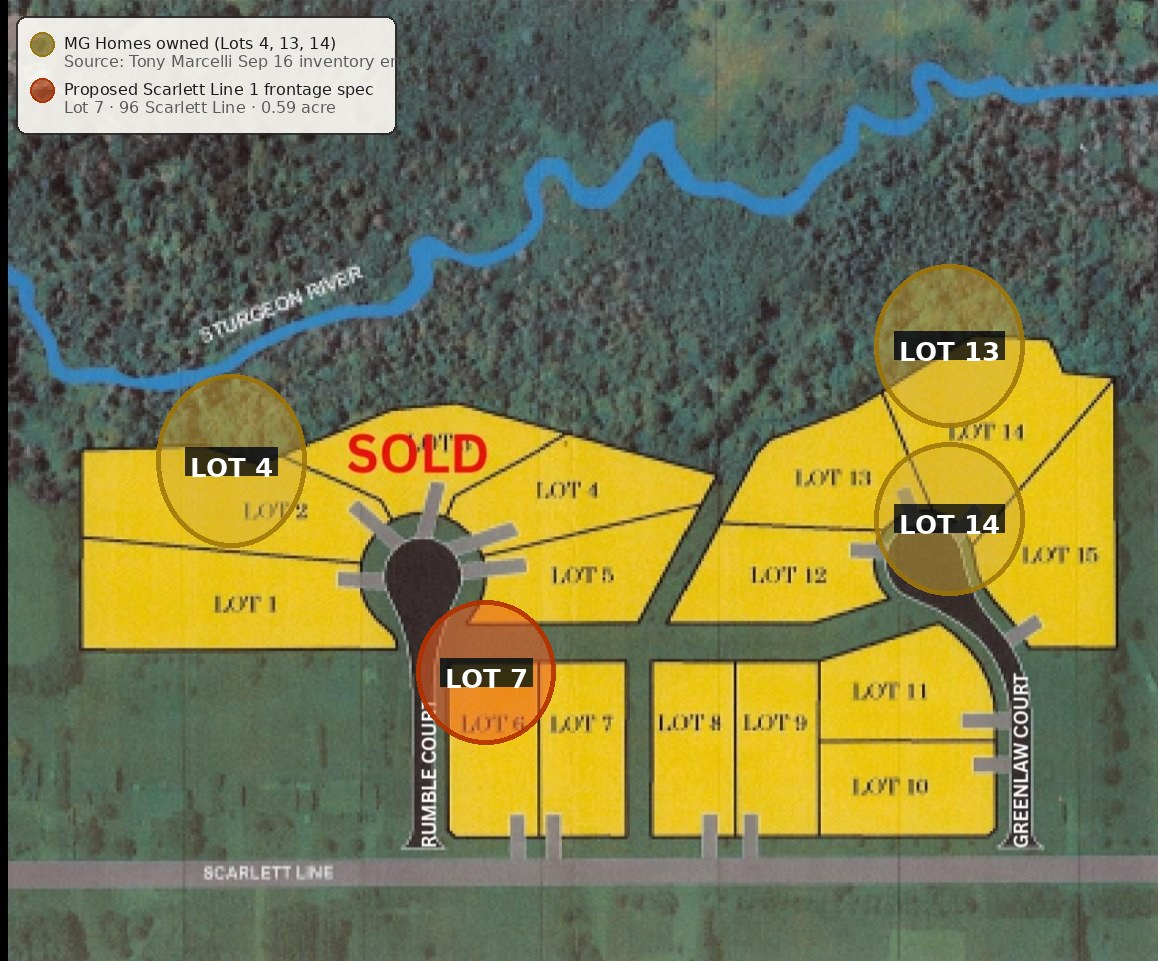
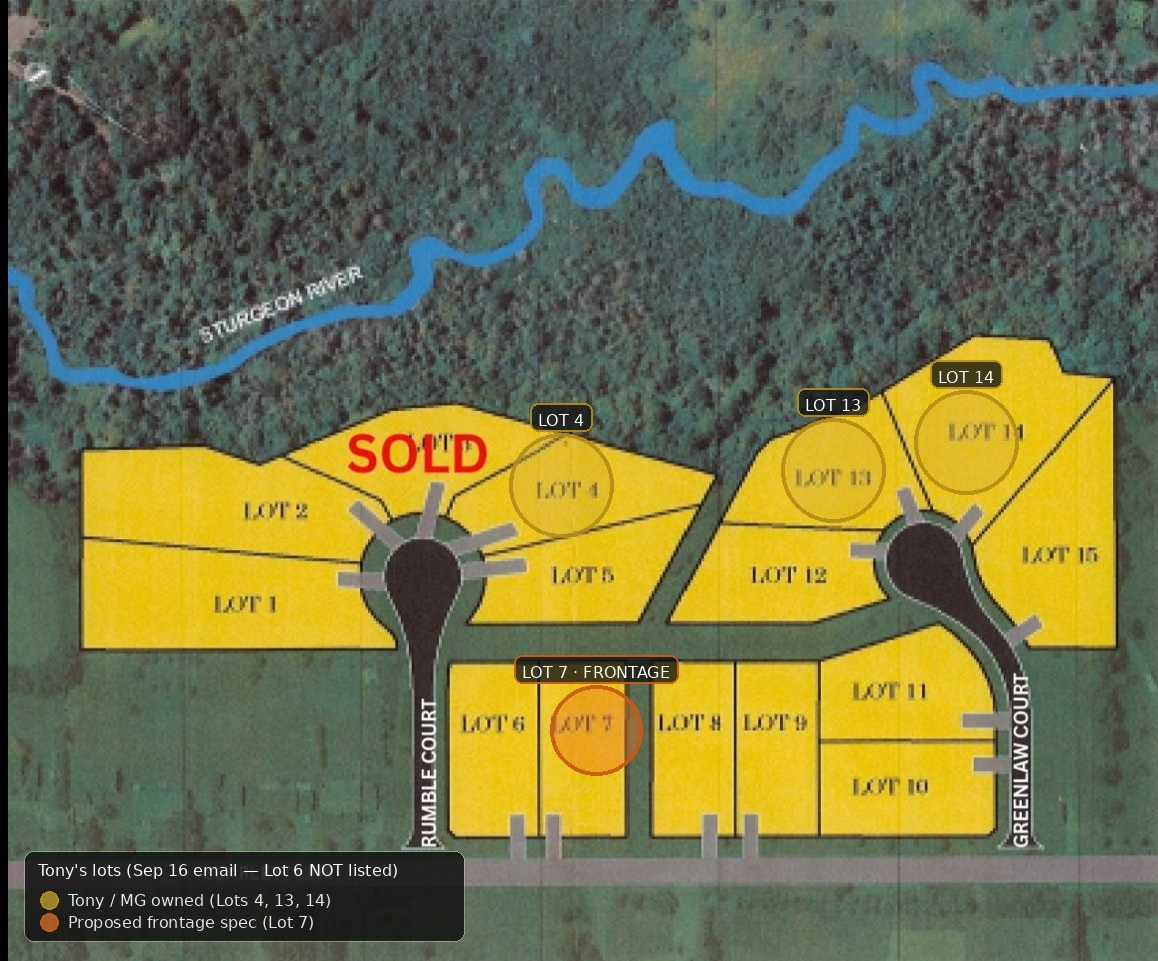
Fix site-plan lot bubbles; O5C label; confirm Tony lots exclude Lot 6
Tony Sep 16 email + PDFs list only Lots 4, 7, 13, 14 (no Lot 6).
Reposition Lot 4/7/13/14 highlights onto labelled parcels; legend notes Lot 6 not listed.

diff --git a/assets/js/main-mg-ref.js b/assets/js/main-mg-ref.js
@@ -1,0 +1,177 @@
+(function(){
+  'use strict';
+  var reduce = window.matchMedia && window.matchMedia('(prefers-reduced-motion: reduce)').matches;
+  var slides = Array.prototype.slice.call(document.querySelectorAll('.slide'));
+  var total = slides.length;
+  var body = document.body;
+
+  // Outbound links in new tabs
+  document.querySelectorAll('a[href^="http"]').forEach(function(a){ a.target = '_blank'; a.rel = 'noopener'; });
+
+  // ---------- Lots ----------
+  var LOTS = [
+    { c:'Scarlett Estates · Hillsdale', no:'Lot 4', addr:'18 Rumble Crt', ac:'0.71', img:'survey-lot4.jpg', fit:'cover', alt:'Survey extract with Lot 4 outlined', rows:[['Lot size','About 0.71 acre'],['Services','Town water, septic, natural gas, fibre optics'],['New build price range','$1.3M to $1.5M']] },
+    { c:'Scarlett Estates · Hillsdale', no:'Lot 7', addr:'96 Scarlett Line', ac:'0.59', img:'survey-lot7.jpg', fit:'cover', alt:'Survey extract with Lot 7 outlined', rows:[['Lot size','About 0.59 acre'],['Services','Town water, septic, natural gas, fibre optics'],['New build price range','$1.3M to $1.5M']] },
+    { c:'Scarlett Estates · Hillsdale', no:'Lot 13', addr:'15 Greenlaw Crt', ac:'0.69', img:'survey-lot13.jpg', fit:'cover', alt:'Survey extract with Lot 13 outlined', rows:[['Lot size','About 0.69 acre'],['Services','Town water, septic, natural gas, fibre optics'],['New build price range','$1.3M to $1.5M']] },
+    { c:'Scarlett Estates · Hillsdale', no:'Lot 14', addr:'12 Greenlaw Crt', ac:'1.01', img:'survey-lot14.jpg', fit:'cover', alt:'Survey extract with Lot 14 outlined', rows:[['Lot size','About 1.01 acres'],['Services','Town water, septic, natural gas, fibre optics'],['New build price range','$1.3M to $1.5M']] },
+    { c:'Swan Lane · Port McNicoll', no:'9 Swan Lane', addr:'Unit 44 · gated', ac:'0.41', img:'sketch-swan9.jpg', fit:'contain', alt:'Lot sketch, 9 Swan Lane, Unit 44', rows:[['Lot size','About 0.41 acre'],['Services','Town water and sewer'],['Connectivity','Rogers and Bell'],['Condo fees','$176.73/month']] },
+    { c:'Swan Lane · Port McNicoll', no:'11 Swan Lane', addr:'Unit 45 · gated', ac:'0.42', img:'sketch-swan11.jpg', fit:'contain', alt:'Lot sketch, 11 Swan Lane, Unit 45', rows:[['Lot size','About 0.42 acre'],['Services','Town water and sewer'],['Connectivity','Rogers and Bell'],['Condo fees','$176.73/month']] }
+  ];
+  var cards = document.getElementById('lotCards');
+  if (cards){
+    LOTS.forEach(function(l, i){
+      var b = document.createElement('button');
+      b.className = 'lot r'; b.style.setProperty('--d', 2 + i * 0.5); b.type = 'button';
+      b.setAttribute('aria-label', 'Open lot sheet: ' + l.no + ', ' + l.addr);
+      b.innerHTML = '<div class="thumb' + (l.fit === 'contain' ? ' contain' : '') + '"><img src="assets/img/' + l.img + '" alt=""></div>' +
+        '<div class="meta"><div class="comm">' + l.c.split(' · ')[0] + '</div><div class="no">' + l.no + '</div><div class="addr">' + l.addr + '</div><span class="ac">' + l.ac + ' acre' + (l.ac === '1.01' ? 's' : '') + '</span></div>';
+      b.addEventListener('click', function(){ openLot(i); });
+      cards.appendChild(b);
+    });
+  }
+  var lb = document.getElementById('lb'), lbIdx = 0, lbMode = '', lbReturn = null;
+  function openLot(i){
+    lbMode = 'lot'; if (!lb.classList.contains('open')) lbReturn = document.activeElement;
+    lbIdx = (i + LOTS.length) % LOTS.length; var l = LOTS[lbIdx];
+    lb.innerHTML = '<div class="sheet" role="dialog" aria-modal="true" aria-label="Lot sheet ' + l.no + '">' +
+      '<div class="head"><img src="assets/img/mg-homes-logo.png" alt="MG Homes"><div><span class="c">' + l.c + '</span><button type="button" data-close aria-label="Close">Close ✕</button></div></div>' +
+      '<div class="main"><div class="plan"><img src="assets/img/' + l.img + '" alt="' + l.alt + '"></div>' +
+      '<div><h4>' + l.no + '</h4><div class="sub">' + l.addr + '</div>' +
+      '<div class="box">MG custom plan and render for this lot<br>(designed with Tony)</div>' +
+      '<table>' + l.rows.map(function(r){ return '<tr><td>' + r[0] + '</td><td>' + r[1] + '</td></tr>'; }).join('') + '</table></div></div>' +
+      '<div class="foot"><span>Faris Team x MG Homes · lot details as provided by MG Homes</span><span class="nav"><button type="button" data-prev>← Prev</button><button type="button" data-next>Next →</button></span></div></div>';
+    lb.classList.add('open');
+    lb.querySelector('[data-close]').focus();
+  }
+  function closeLot(){
+    lb.classList.remove('open'); lb.innerHTML = ''; lbMode = '';   // clearing innerHTML also stops the video
+    if (lbReturn && lbReturn.focus) lbReturn.focus({ preventScroll: true }); lbReturn = null;
+  }
+
+  // ---------- Showcase video (YouTube in the lightbox; "Watch on YouTube" fallback for file:// playback) ----------
+  var YT_ID = '7DDawthzjuA', YT_WATCH = 'https://www.youtube.com/watch?v=' + YT_ID;
+  function openVideo(){
+    lbMode = 'video'; lbReturn = document.activeElement;
+    lb.innerHTML = '<div class="sheet vsheet" role="dialog" aria-modal="true" aria-label="Video tour: 7 Reynolds Road, Tiny">' +
+      '<div class="head"><span class="c">Example · our video tour of 7 Reynolds Road, Tiny</span><button type="button" data-close aria-label="Close video">Close ✕</button></div>' +
+      '<div class="vframe"><iframe src="https://www.youtube-nocookie.com/embed/' + YT_ID + '?autoplay=1&amp;rel=0" title="7 Reynolds Road, Tiny | Home for Sale | Faris Team" allow="autoplay; encrypted-media; picture-in-picture; fullscreen" referrerpolicy="strict-origin-when-cross-origin" allowfullscreen></iframe></div>' +
+      '<div class="foot"><span>Faris Team video · filmed with the homeowner\'s permission</span><a class="yt" href="' + YT_WATCH + '" target="_blank" rel="noopener">Not playing? Watch on YouTube ↗</a></div></div>';
+    lb.classList.add('open');
+    lb.querySelector('[data-close]').focus();
+  }
+  var showVideo = document.getElementById('showVideo');
+  if (showVideo && lb) showVideo.addEventListener('click', openVideo);
+  if (lb){
+    lb.addEventListener('click', function(e){
+      if (e.target === lb || e.target.closest('[data-close]')) closeLot();
+      else if (e.target.closest('[data-prev]')) openLot(lbIdx - 1);
+      else if (e.target.closest('[data-next]')) openLot(lbIdx + 1);
+    });
+  }
+
+  // ---------- Lot animation video (loads only if the file exists) ----------
+  var vbox = document.getElementById('lotVideo');
+  if (vbox){
+    var v = vbox.querySelector('video');
+    v.addEventListener('loadeddata', function(){ vbox.classList.add('has-video'); if (!reduce) v.play().catch(function(){}); });
+    v.addEventListener('error', function(){ vbox.classList.remove('has-video'); }, true);
+    var s = document.createElement('source'); s.src = 'assets/video/lot-animation.mp4'; s.type = 'video/mp4';
+    s.addEventListener('error', function(){ vbox.classList.remove('has-video'); });
+    v.appendChild(s); v.load();
+  }
+
+  // ---------- Chrome: progress, dots, counter, menu ----------
+  var progress = document.querySelector('.progress');
+  var counter = document.querySelector('.counter');
+  var dots = document.querySelector('.dots');
+  var menuList = document.querySelector('.menu ol');
+  slides.forEach(function(s, i){
+    var d = document.createElement('button'); d.type = 'button'; d.title = s.dataset.title; d.setAttribute('aria-label', 'Go to ' + s.dataset.title);
+    d.addEventListener('click', function(){ go(i); }); dots.appendChild(d);
+    var li = document.createElement('li'); li.innerHTML = '<a href="#' + s.id + '"><span>' + (i + 1) + '</span>' + s.dataset.title + '</a>';
+    li.querySelector('a').addEventListener('click', function(e){ e.preventDefault(); go(i); toggleMenu(false); });
+    menuList.appendChild(li);
+  });
+  var dotEls = dots.children, menuLinks = menuList.querySelectorAll('a');
+  var notesPanel = document.querySelector('.notes-panel .txt');
+  var current = -1;
+
+  function idxNow(){ return Math.max(0, Math.min(total - 1, Math.round(window.scrollY / window.innerHeight))); }
+  function nearest(){
+    var best = 0, bd = Infinity;
+    slides.forEach(function(s, i){ var d = Math.abs(s.getBoundingClientRect().top); if (d < bd){ bd = d; best = i; } });
+    return best;
+  }
+  function setActive(i){
+    if (i === current) return; current = i;
+    slides.forEach(function(s, k){ if (k === i) activate(s); });
+    progress.style.width = ((i + 1) / total * 100) + '%';
+    counter.textContent = String(i + 1).padStart(2, '0') + ' / ' + String(total).padStart(2, '0');
+    for (var k = 0; k < dotEls.length; k++){ dotEls[k].classList.toggle('on', k === i); menuLinks[k].classList.toggle('on', k === i); }
+    var n = slides[i].querySelector('.notes'); notesPanel.textContent = n ? n.textContent : 'No notes for this slide.';
+    document.body.classList.toggle('on-dark', slides[i].classList.contains('dark'));
+  }
+  function activate(s){
+    if (s.classList.contains('active')) return;
+    s.classList.add('active');
+    s.querySelectorAll('[data-count]').forEach(countUp);
+  }
+  function fmt(n){ return Math.round(n).toLocaleString('en-CA'); }
+  function countUp(el){
+    if (el.dataset.done) return; el.dataset.done = 1;
+    var to = +el.dataset.count, suf = el.dataset.suffix || '', pre = el.dataset.prefix || '';
+    if (reduce){ el.textContent = pre + fmt(to) + suf; return; }
+    var t0 = null, dur = 1400;
+    function step(t){ if (!t0) t0 = t; var p = Math.min(1, (t - t0) / dur); var e = 1 - Math.pow(1 - p, 3);
+      el.textContent = pre + fmt(to * e) + suf; if (p < 1) requestAnimationFrame(step); }
+    el.textContent = pre + '0' + suf; requestAnimationFrame(step);
+  }
+  // Observe slides becoming visible
+  if ('IntersectionObserver' in window){
+    var io = new IntersectionObserver(function(es){ es.forEach(function(e){ if (e.isIntersecting) activate(e.target); }); }, { threshold: 0.45 });
+    slides.forEach(function(s){ io.observe(s); });
+  } else slides.forEach(activate);
+  var ticking = false;
+  window.addEventListener('scroll', function(){ if (!ticking){ ticking = true; requestAnimationFrame(function(){ setActive(nearest()); ticking = false; }); } }, { passive: true });
+  window.addEventListener('resize', function(){ setActive(nearest()); });
+  setActive(nearest());
+
+  function go(i){
+    i = Math.max(0, Math.min(total - 1, i));
+    slides[i].scrollIntoView({ behavior: reduce ? 'auto' : 'smooth', block: 'start' });
+  }
+  window.goToSlide = go;
+
+  function toggleMenu(force){ var on = typeof force === 'boolean' ? force : !body.classList.contains('menu-open'); body.classList.toggle('menu-open', on); }
+  document.querySelector('.menu-btn').addEventListener('click', function(){ toggleMenu(); });
+  document.querySelector('.menu-hot').addEventListener('mouseenter', function(){ toggleMenu(true); });
+  document.querySelector('.menu').addEventListener('mouseleave', function(){ toggleMenu(false); });
+
+  function fullscreen(){
+    var d = document;
+    if (!d.fullscreenElement && !d.webkitFullscreenElement){ var el = d.documentElement; (el.requestFullscreen || el.webkitRequestFullscreen).call(el); }
+    else (d.exitFullscreen || d.webkitExitFullscreen).call(d);
+  }
+
+  document.addEventListener('keydown', function(e){
+    if (e.metaKey || e.ctrlKey || e.altKey) return;
+    var k = e.key;
+    if (lb && lb.classList.contains('open')){
+      // While any lightbox is open, keys never move the slides underneath.
+      if (k === 'Escape'){ closeLot(); e.preventDefault(); }
+      else if (lbMode === 'lot' && k === 'ArrowRight'){ openLot(lbIdx + 1); e.preventDefault(); }
+      else if (lbMode === 'lot' && k === 'ArrowLeft'){ openLot(lbIdx - 1); e.preventDefault(); }
+      else if (/^(Arrow(Up|Down|Left|Right)|PageUp|PageDown|Home|End| )$/.test(k)){ if (!(k === ' ' && e.target.closest && e.target.closest('button, a'))) e.preventDefault(); }
+      return;
+    }
+    var cur = nearest();
+    if (k === 'ArrowDown' || k === 'ArrowRight' || k === 'PageDown' || (k === ' ' && !e.shiftKey)){ go(cur + 1); e.preventDefault(); }
+    else if (k === 'ArrowUp' || k === 'ArrowLeft' || k === 'PageUp' || (k === ' ' && e.shiftKey)){ go(cur - 1); e.preventDefault(); }
+    else if (k === 'Home'){ go(0); e.preventDefault(); }
+    else if (k === 'End'){ go(total - 1); e.preventDefault(); }
+    else if (k === 'n' || k === 'N'){ body.classList.toggle('notes-on'); }
+    else if (k === 'm' || k === 'M'){ toggleMenu(); }
+    else if (k === 'f' || k === 'F'){ fullscreen(); }
+    else if (k === 'Escape'){ toggleMenu(false); body.classList.remove('notes-on'); }
+  });
+})();

diff --git a/index.html b/index.html
@@ -6,8 +6,8 @@
 <title>Scarlett Estates Spec Pricing - Faris Team x MG Homes</title>
 <meta name="description" content="Scarlett Estates frontage-lot spec pricing for Tony Marcelli, MG Homes. Prepared by Jonathan Wallace, REALTOR®, with Sabrina Staunton.">
 <meta name="robots" content="noindex,nofollow">
-<link rel="stylesheet" href="assets/css/styles.css?v=1029g">
-<link rel="stylesheet" href="assets/css/scarlet.css?v=1029g">
+<link rel="stylesheet" href="assets/css/styles.css?v=1029j">
+<link rel="stylesheet" href="assets/css/scarlet.css?v=1029j">
 <link rel="stylesheet" href="https://unpkg.com/leaflet@1.9.4/dist/leaflet.css" integrity="sha256-p4NxAoJBhIIN+hmNHrzRCf9tD/miZyoHS5obTRR9BMY=" crossorigin="">
 <script>document.documentElement.className += ' js';</script>
 
@@ -53,7 +53,7 @@
     <img class="mg r" style="--d:2" src="assets/img/mg-homes-logo.png" alt="MG Homes">
   </div>
   <div class="right">
-    <div class="photo kb"><img src="assets/img/scarlett-estates-site-plan-mg.jpg" alt="Scarlett Estates site plan"></div>
+    <div class="photo kb"><img src="assets/img/scarlett-estates-site-plan-mg.jpg?v=1029j" alt="Scarlett Estates site plan"></div>
     <div class="title">
       <h1 class="r" style="--d:2">Scarlett Estates <em>Spec Pricing</em></h1>
       <div class="sub r" style="--d:3">Frontage-lot strategy for Tony Marcelli · MG Homes</div>
@@ -115,7 +115,7 @@
     <h2 class="h r" style="--d:1">Tony's owned lots, with the Scarlett Line frontage marked</h2>
     <hr class="rule r" style="--d:1">
     <div class="r" style="--d:2;margin-top:calc(var(--u)*1)">
-      <img src="assets/img/scarlett-estates-site-plan-mg.jpg" alt="Scarlett Estates site plan with MG Homes owned lots highlighted in gold and Lot 7 frontage spec in orange" style="width:100%;max-height:62vh;object-fit:contain;border-radius:6px;border:1px solid var(--line);background:#fff">
+      <img src="assets/img/scarlett-estates-site-plan-mg.jpg?v=1029j" alt="Scarlett Estates site plan with MG Homes owned lots highlighted in gold and Lot 7 frontage spec in orange" style="width:100%;max-height:62vh;object-fit:contain;border-radius:6px;border:1px solid var(--line);background:#fff">
     </div>
     <div class="chips r" style="--d:3;margin-top:calc(var(--u)*1)">
       <span class="chip">Gold = MG Homes owned: Lots 4, 13, 14</span>
@@ -123,7 +123,7 @@
       <span class="chip">Source: Tony Sep 16 email + Plan 51M-1218 site plan</span>
     </div>
   </div>
-  <aside class="notes">Ownership from Tony's Sep 16 inventory email listing Lots 4, 7, 13, 14. Lot 3 is marked SOLD on the site plan. Lot 17 was named on the Build Sheet but not sent by Tony and is not highlighted.</aside>
+  <aside class="notes">Ownership from Tony's Sep 16 inventory email listing Lots 4, 7, 13, 14 only — Lot 6 is on the site plan but was NOT in Tony's email or PDFs. Lot 3 is marked SOLD on the site plan. Lot 17 was named on the Build Sheet but not sent by Tony and is not highlighted.</aside>
 </section>
 
 <section class="slide alt" id="s-map" data-title="Map">
@@ -220,7 +220,7 @@
 
 <section class="slide dark" id="s-suggest" data-title="Suggested price">
   <div class="content">
-    <div class="eyebrow r"><span class="num">05c</span> Suggested Scarlett Line spec price</div>
+    <div class="eyebrow r"><span class="num">O5C</span> Suggested Scarlett Line spec price</div>
     <h2 class="h r" style="--d:1">Suggested list: <em class="money">$1,089,900</em></h2>
     <hr class="rule r" style="--d:1">
     <p class="lede r" style="--d:1.5;max-width:58ch">Recommended public ask for the Lot 7 · 96 Scarlett Line frontage spec. Sits under Waverley Heights ($1.2M–$1.3M) and under the sold median ($1,250,000). Size still TBC with Tony.</p>
@@ -658,6 +658,6 @@ window.SCARLET_MAP_SOLDS = [
 window.SCARLET_MAP_MG = [{"lat": 44.590715, "lng": -79.747146, "label": "Scarlett Estates \u00b7 Hillsdale (96 Scarlett Line)", "kind": "mg"}, {"lat": 44.590715, "lng": -79.747146, "label": "Lot 7 \u00b7 96 Scarlett Line (frontage) \u00b7 0.59 ac", "kind": "front"}, {"lat": 44.5915, "lng": -79.7485, "label": "Lot 4 \u00b7 18 Rumble Crt \u00b7 0.71 ac", "kind": "mg"}, {"lat": 44.5918, "lng": -79.7458, "label": "Lot 13 \u00b7 15 Greenlaw Crt \u00b7 0.69 ac", "kind": "mg"}, {"lat": 44.5912, "lng": -79.7455, "label": "Lot 14 \u00b7 12 Greenlaw Crt \u00b7 1.01 ac", "kind": "mg"}, {"lat": 44.7514602, "lng": -79.8009409, "label": "Swan Lane \u00b7 Port McNicoll", "kind": "mg"}, {"lat": 44.6411302, "lng": -79.8291328, "label": "Waverley Heights \u00b7 Corsica Homes", "kind": "comp"}];
 </script>
 <script src="https://unpkg.com/leaflet@1.9.4/dist/leaflet.js" integrity="sha256-20nQCchB9co0qIjJZRGuk2/Z9VM+kNiyxNV1lvTlZBo=" crossorigin=""></script>
-<script src="assets/js/main.js?v=1029g"></script>
+<script src="assets/js/main.js?v=1029j"></script>
 </body>
 </html>
